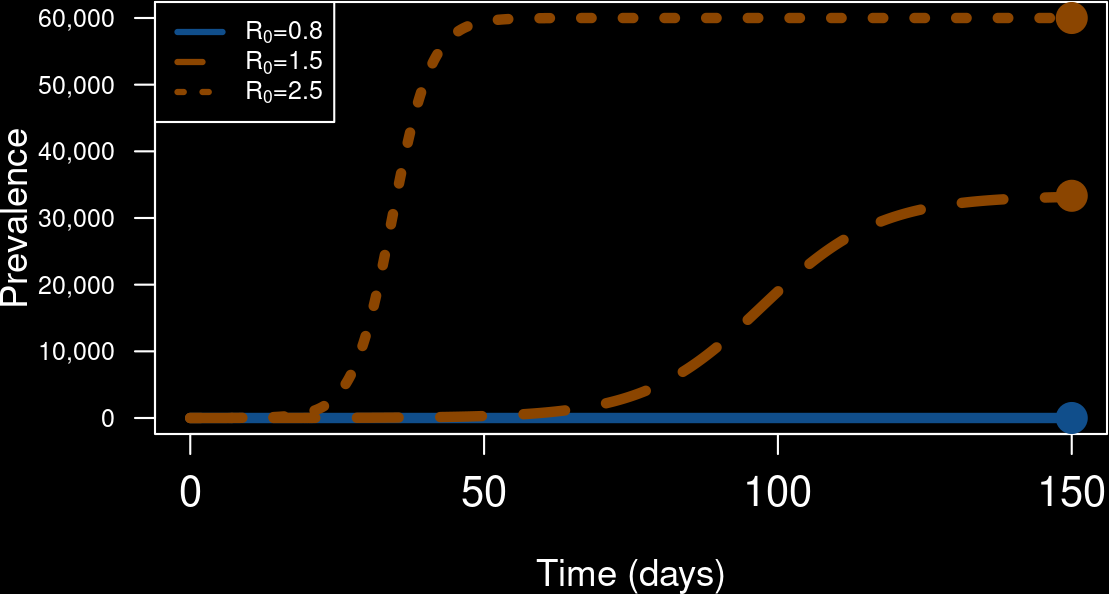
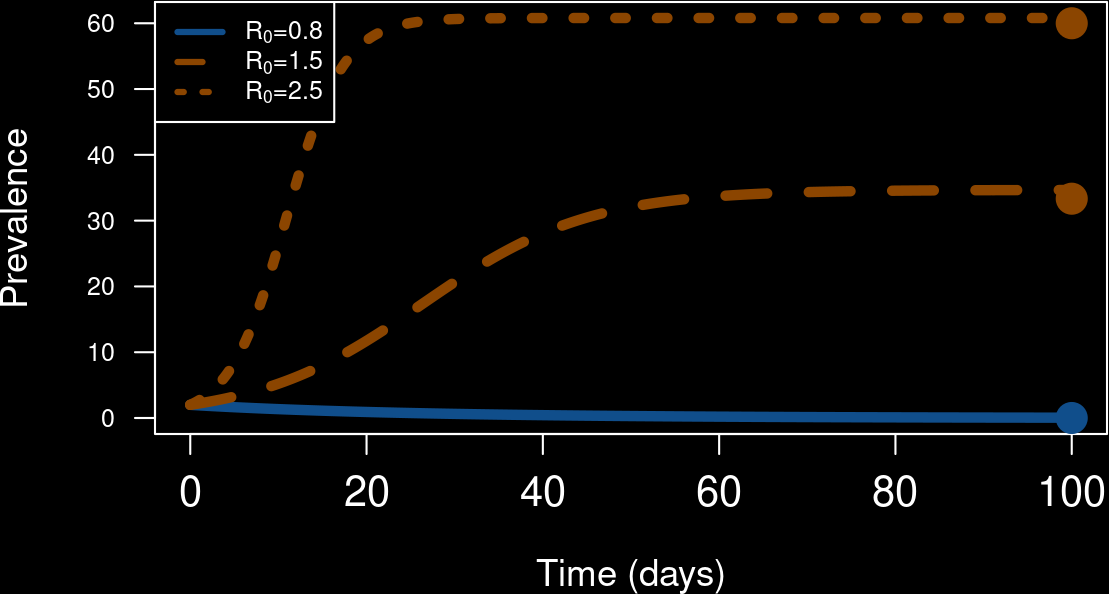
Update

diff --git a/SLIDES_MD/2022-10-OMNI-03-simulation.md b/SLIDES_MD/2022-10-OMNI-03-simulation.md
@@ -745,11 +745,11 @@ $$\mathcal{R}_0 = \dfrac{\beta}{\gamma}P^\star$$
 - If $\mathcal{R}_0=\beta P^\star/\gamma<1$, the disease dies out (*disease-free* equilibrium)
 - If $\mathcal{R}_0>1$, it becomes established at an *endemic* equilibrium $I^\star=P^\star-\gamma/\beta=(1-1/\mathcal{R}_0)P^\star$
 
-Next slides: $P^\star = 100$K, $\gamma=1/5$, $\mathcal{R}_0=\{0.8,1.5,2.5\}$ (and $\beta=\gamma \mathcal{R}_0/P^\star$)
+Next slides: $P^\star = 100$, $\gamma=1/5$, $\mathcal{R}_0=\{0.8,1.5,2.5\}$ (and $\beta=\gamma \mathcal{R}_0/P^\star$), $I_0=1$
 
 ---
 
-![bg contain](https://raw.githubusercontent.com/julien-arino/presentations/main/FIGS/stochastic/ODE_SIS.png)
+![bg contain](https://raw.githubusercontent.com/julien-arino/omni-course-part1/main/FIGS/ODE_SIS.png)
 
 ---
 
@@ -1212,12 +1212,12 @@ See [`simulate_CTMC_parallel.R`](https://raw.githubusercontent.com/julien-arino/
 
 # Benefit of parallelisation
 
-Run the parallel code for 100 sims between `tictoc::tic()` and `tictoc::toc()`, giving `66.958 sec elapsed`, then the sequential version
+Run the parallel code for 50 sims between `tictoc::tic()` and `tictoc::toc()`, giving `158.103 sec elapsed`, then the sequential version
 ```R
 tictoc::tic()
 SIMS = lapply(X = 1:params$number_sims, 
               FUN =  function(x) run_one_sim(params))
 tictoc::toc()
 ```
-which gives `318.141 sec elapsed` on a 6C/12T Intel(R) Core(TM) i9-8950HK CPU @ 2.90GHz (4.75$\times$ faster) or `12.067 sec elapsed` versus `258.985 sec elapsed` on a 32C/64T AMD Ryzen Threadripper 3970X 32-Core Processor (21.46$\times$ faster !)
+which gives `158.306 sec elapsed` on a 64C/128T AMD Ryzen Threadripper 3990X (21.46$\times$ faster !)
 
